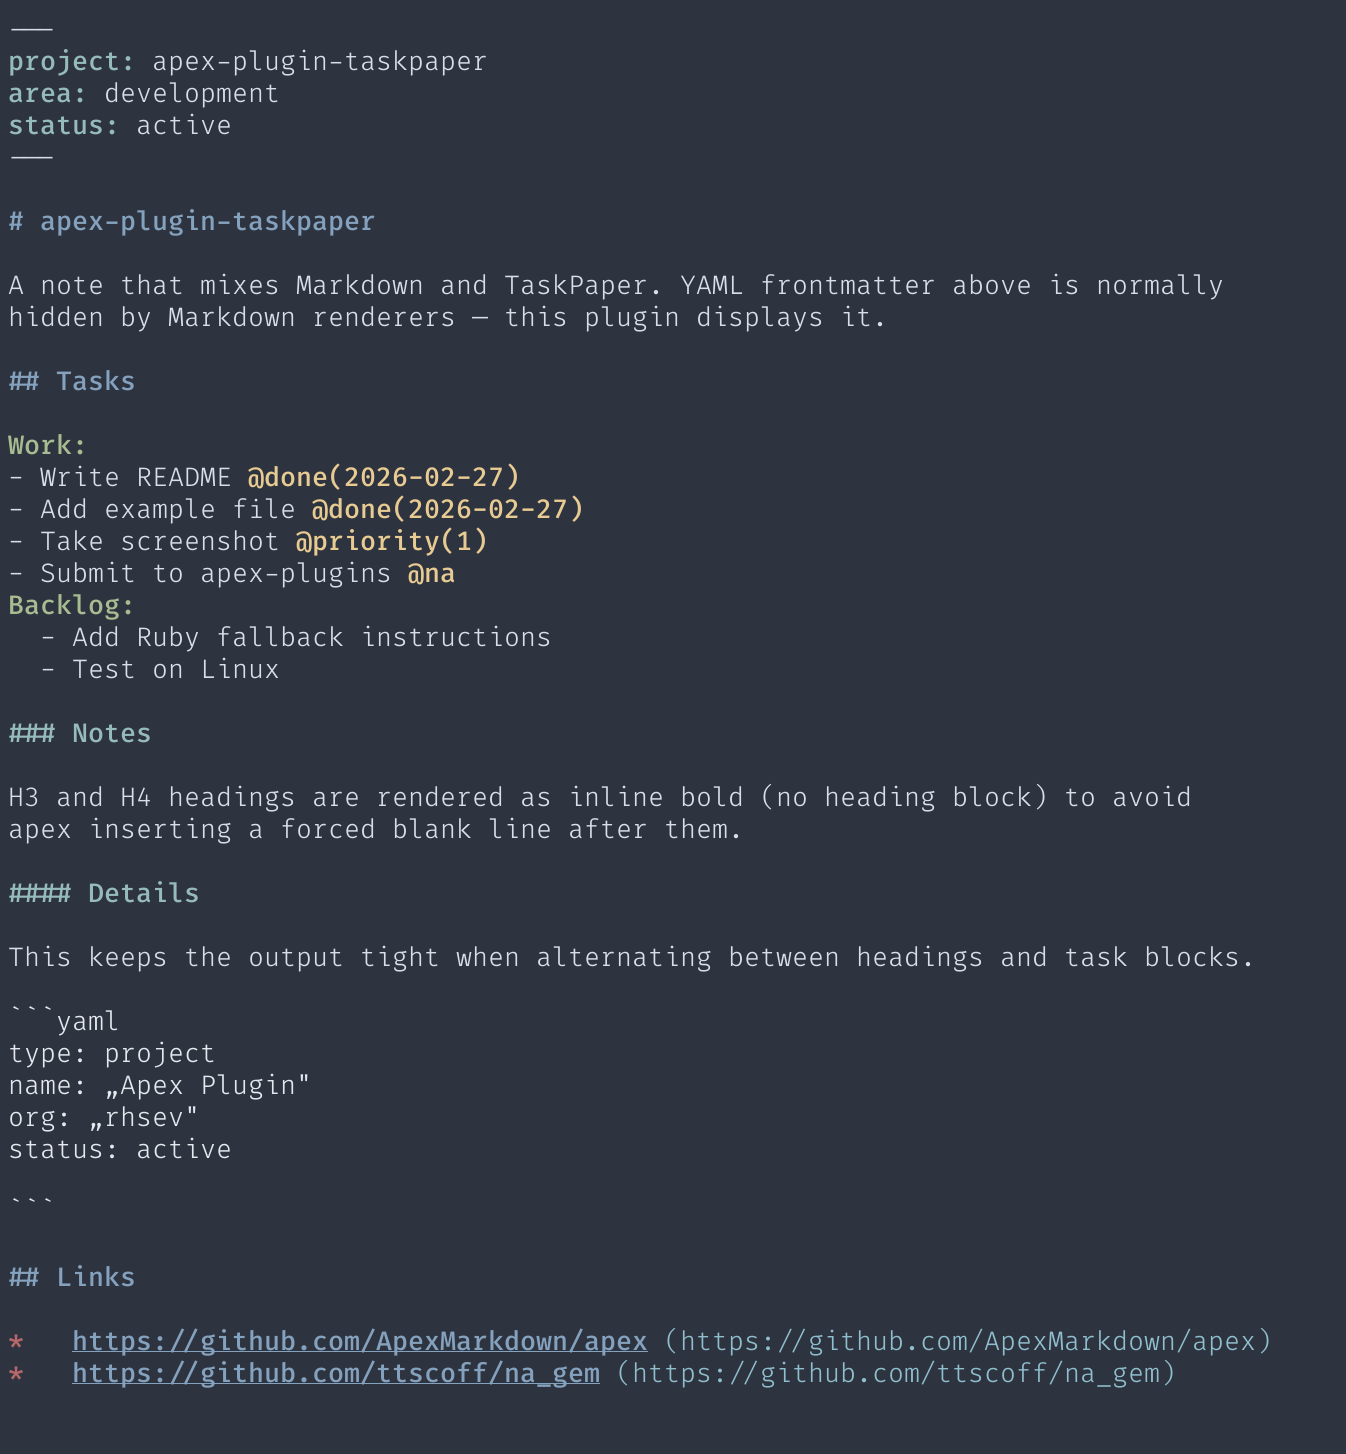
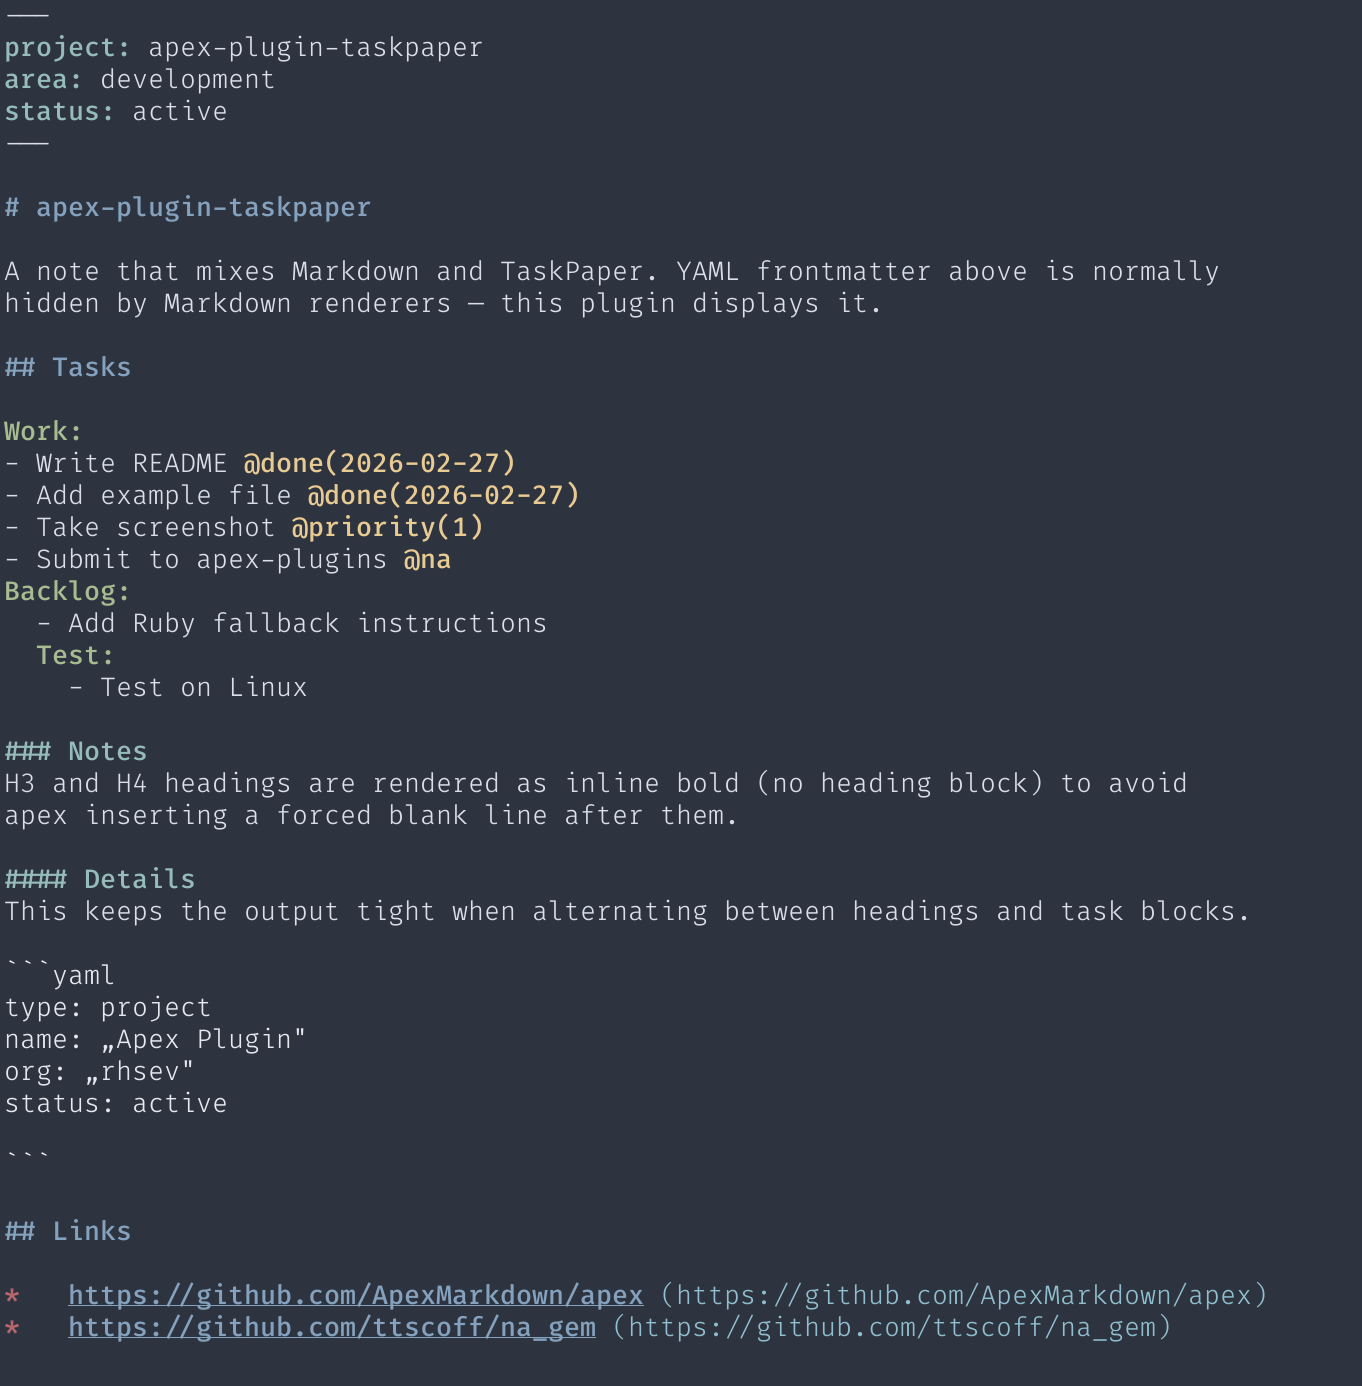
Update example file and screenshot

diff --git a/example.taskpaper.md b/example.taskpaper.md
@@ -18,15 +18,14 @@ Work:
 	- Submit to apex-plugins @na
 	Backlog:
 		- Add Ruby fallback instructions
-		- Test on Linux
+		Test:
+			- Test on Linux
 
 ### Notes
-
 H3 and H4 headings are rendered as inline bold (no heading block) to avoid
 apex inserting a forced blank line after them.
 
 #### Details
-
 This keeps the output tight when alternating between headings and task blocks.
 
 ```yaml
